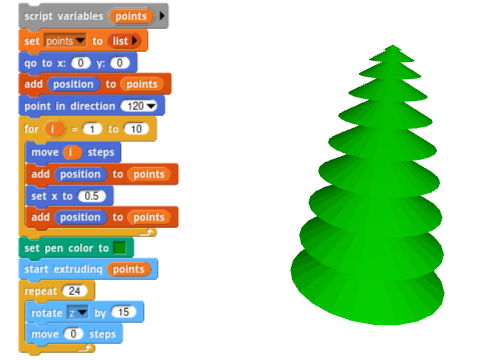
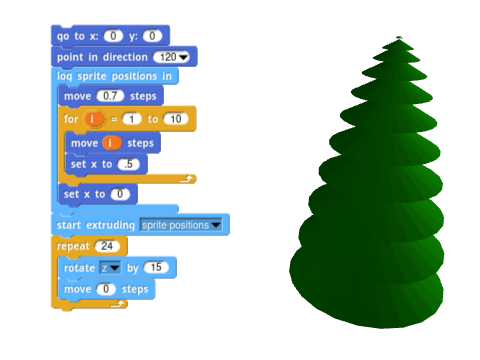
basic documentation finished for now

diff --git a/docs/viewer.html b/docs/viewer.html
@@ -39,6 +39,30 @@ body {
     font-family: arial;
     color: #333;
 }
+
+h1 {
+    font-size: 3em;
+    text-decoration: underline;
+}
+
+h2 {
+    font-size: 2.5em;
+    margin-bottom: 0em;
+    margin-top: 1.5em;
+}
+
+h3 {
+    font-size: 2em;
+    font-style: italic;
+    margin-bottom: 0em;
+}
+
+h4 {
+    font-size: 1.6em;
+    font-style: italic;
+    margin-bottom: 0em;
+}
+
         </style>
     </head>
     <body>

diff --git a/docs/index.md b/docs/index.md
@@ -25,18 +25,23 @@ features that you will easily adapt to.
 You can refer to the [blocks reference](#all-blocks-described) at the end of
 this article to learn what every single block does.
 
-## Overview and Abstractions
+## Overview and Abstractions 
+
+First of all, you will need to open the 3D viewport in order to be able to see
+the Beetle and the geometries you generate. To do so, navigate to the *3D
+Beetle* category and click on the button at the top of the blocks palette,
+labeled *Open 3D Window*.
 
 ### The Beetle
 
-The Beetle is a character that can move around 3D space. Here's what it looks
+The Beetle is a character that can move around in 3D space. Here's what it looks
 like in its default color:
 
 > ![beetle](beetle.png)
 
 This character is to 3D what the Lego turtle is to 2D. Turtles can move on a 2D
 plane, but beetles can additionally fly and dig underground, which makes them
-very apt for exploring the third dimension.
+very apt at exploring the third dimension.
 
 ### Movement and Rotation
 
@@ -57,7 +62,12 @@ we call **extrusion**. Extruding is leaving a 3D trail along a path. Think of it
 as if the Beetle was carrying a pastry tube, or one of these play dough
 extruders, with interchangeable headers.
 
-> ![The beetle and its movement and rotation axes](playdough_extruder.png)
+> ![A render of a playdough extruder](playdough_extruder.png)
+
+Extrusion is the only way to generate geometry in the 3D beetle extension, but
+it is a very powerful construct. As you gain experience with the extension
+you'll find that all shapes can be constructed in terms of extrusions of 2D
+profiles and polygons.
 
 #### Extruding a Point
 
@@ -104,14 +114,66 @@ shape:
 > ![The beetle has extruded a truncated triangle along a
 path](custom_polygon_extrusion.png)
 
-# Examples
+#### Scale and Offset
 
-First of all, you will need to open the 3D viewport in order to be able to see
-the Beetle and the geometries you generate. To do so, navigate to the *3D
-Beetle* category and click on the button at the top of the blocks palette,
-labeled *Open 3D Window*.
+Extrusion shapes can be scaled up or down by using the ![](blocks/set_scale.png)
+block. The scale is a multiplier that is applied to the dimensions of the
+current extrusion shape.
 
-## Basic Solids
+> ![](scaled_extrusion.png)
+
+Note that, as is often the case in Snap<em>!</em>, you can drop a list into the
+scale block to get it to affect the width and height of the shape separately.
+
+> ![](list_scale.png)
+
+Another operation you can apply to the current extrusion shape is an offset.
+This will affect the position of the extrusion shape relative to the Beetle.
+
+> ![](offset_extrusion.png)
+
+#### Complex Extrusion Bases
+
+Many shapes can be thought of in terms of combinations of the basic extrusion
+shapes and their possible scaling and offsetting transformations. Others can
+relatively easily be expressed as a list of points. Sometimes, though, your
+extrusion base may be too complex to input manually into a list.
+
+In these cases you'll want to use the `log sprite positions` block to trace the
+path followed by a Snap<em>!</em> sprite and turn into an extrusion base.
+
+> ![](star_extrusion.png)
+
+#### Arbitrary Extrusion Base Transformations
+
+All extrusion shapes are just lists of points, which are in turn just lists of
+two numbers. Here's the list of points of the default triangle extrusion:
+
+![](shape_points.png)
+
+Thus, you can apply any transformations you wish to the shape as you would with
+any other list in Snap<em>!</em>. For instance, you could apply a `ceiling`
+operation to the triangle shape to turn it into a right triangle:
+
+> ![](right_triangle.png)
+
+#### Zero-step Extrusion
+
+A very powerful construct in the 3D Beetle extension is the zero-step extrusion.
+When you ask the beetle to move zero steps while extruding, it will generate a
+face in 3D space. This in itself may not sound too useful, but in combination
+with rotation and scaling it can produce incredibly complex results. For
+instance, here's how to generate a smooth corner by performing a series of turns
+with zero-step extrusions in between:
+
+> ![](smooth_corner.png)
+
+In the examples section you'll see zero-step extrusion used extensively to
+generate a wide variety of shapes, such as revolution solids.
+
+## Examples
+
+### Basic Solids
 
 Since the only way to generate volumes with the Beetle is to extrude 2D shapes
 along a path, it can be interesting to start by taking a look at how to generate
@@ -121,7 +183,7 @@ An important block that you may want to have at hand is ![](reset.png). This
 block will remove all geometry from the 3D view, and get the Beetle back to its
 original position.
 
-### Cube
+#### Cube
 
 A cube can be understood as an extrusion of a square. Let's begin by selecting
 the correct extrusion base from the dropdown menu in the following block:
@@ -139,13 +201,13 @@ walk one single step:
 
 > ![](cube.png)
 
-### Cylinder
+#### Cylinder
 
 Similarly, extruding a circle will produce a cylinder.
 
 > ![](cylinder.png)
 
-### Tube
+#### Tube
 
 Here's where things can begin to get a little bit tricky. If you want the
 cylinder to have no caps -that is, if you want to generate a tube-, you can't
@@ -159,12 +221,23 @@ generating the walls of the cylinder one by one as the beetle walks in a circle:
 
 > ![](tube_code.png)
 
-To change the height of the tube you will need to specify a custom line to
-extrude:
+To change the height of the tube you could specify a custom line to extrude:
 
 > ![](long_tube_code.png)
 
-### Tube with Thick Walls
+Or you could simply change the scale of the shape:
+
+> ![](tube_scale.png)
+
+If you want the tube to be centered on the beetle, you can do so by offsetting
+the shape and performing a series of zero-step extrusions.
+
+> ![](tube_centered.png)
+
+Notice how you'll need to add an extra zero-step extrusion after the loop in
+order to close the cylinder.
+
+#### Tube with Thick Walls
 
 The previous tube has walls of zero thickness. An easy way to achieve a thick
 wall is to extrude a custom rectangle along a circular path:
@@ -182,7 +255,47 @@ move zero steps after the loop:
 
 > ![](thick_tube_code.png)
 
-### Sphere
+An even easier way to generate a tube with thick walls is to scale a square
+non-uniformly. The _x_ scale will define the thickness of the walls, while the
+_y_ scale will define the height of the tube.
+
+> ![](thick_tube_square.png)
+
+As is very often the case, there are multiple ways to think of a shape. You
+could also generate a tube by extruding two semiannuli (yes, that's the word
+mathematicians use for half a ring). You can first experiment with drawing the
+semiannulus in turtle geometry in Snap<em>!</em>, which will _definitely_ be
+much easier if you first load the Arcs library from the Library Browser.
+
+> ![](semiannulus.png)
+
+You can now turn that shape into an extrusion base by wrapping the script in a
+`log sprite positions` block:
+
+> ![](semiannulus_base.png)
+
+Notice how this created a huge base. A single step for a Snap<em>!</em> sprite
+becomes a millimeter in the Beetle world, and beetles are tiny critters. This
+also helps increase the precision of your shapes. In this case, though, you can
+apply a scale multiplier to bring the size down.
+
+The only thing missing now is to extrude this shape twice while rotating it in
+between.
+
+> ![](semiannulus_tube.png)
+
+This is obviously too much of a hassle if all you wanted is to generate a tube,
+but it opens the door to a completely different set of shapes that wouldn't be
+possible with a rectangular-based tube extrusion, such as this thimble:
+
+> ![](thimble.png)
+
+Or this smoothly bent tube:
+
+> ![](bent_tube.png)
+
+
+#### Sphere
 
 Extruding with zero-movement steps lets you generate revolution solids rather
 easily.
@@ -206,12 +319,13 @@ geometry really looks like.
 Most 3D software will take this sphere without flinching, but others will
 complain that the geometry is not correct and show it to you like it really is:
 
-> ![](cura_errors.png) ![](meshlab_errors.png)
+> ![](meshlab_errors.png)
 
-### Sphere with Proper Geometry
+#### Sphere with Proper Geometry
 
-The proper way to make a sphere is to revolve an open semicircle so that only
-the outer shell is generated, and with its facets always facing the correct way.
+If your 3D software complains, then the "proper" way to make a sphere is to
+revolve an open semicircle so that only the outer shell is generated, and with
+its facets always facing the correct way.
 
 > ![](proper_sphere.png)
 
@@ -222,9 +336,9 @@ The geometry now looks perfectly fine in wireframe mode.
 Additionally, all 3D software renders it properly with no complaints about
 reverse facets or internal faces.
 
-> ![](cura_ok.png) ![](meshlab_ok.png)
+> ![](meshlab_ok.png)
 
-### Cone
+#### Cone
 
 A cone can be understood as a revolution of a triangle. You could, thus, extrude
 a triangle while turning around the Z axis and moving zero steps at each
@@ -240,7 +354,7 @@ will be frowned upon by some 3D software:
 Just like before, the culprits are some of the faces that have ended up
 inside-out.
 
-### Cone with Proper Geometry
+#### Cone with Proper Geometry
 
 To get a proper cone we will have to revolve two lines forming an acute angle.
 
@@ -263,9 +377,23 @@ shape scale to zero, then moving as many steps as deep you want your cone to be.
 
 > ![](scaled_cone.png)
 
-## Advanced Examples
+### Advanced Examples
 
-### Staired Pyramid
+#### Pine Tree
+
+A simple pine tree can be generated by revolving a 2D zig-zag pattern. You can
+use the already familiar `log sprite positions` block to get a list of points
+that follow said zig-zag pattern.
+
+> ![](tree.png)
+
+A similar tree can be generated by extruding a succession of smaller and smaller
+rather flat cones. This method will also allow you to tweak the color of each
+floor independently.
+
+> ![](tree_cones.png)
+
+#### Staired Pyramid
 
 A pyramid can also be thought of in different ways. An obvious one is to stack a
 bunch of flat square boxes one on top of the other in decreasing sizes.
@@ -303,10 +431,9 @@ have a bottom face.
 
 > ![](stair_turtle.png)
 
-Now you don't need the pen code anymore. You can just create a temporary
-variable and push all the positions into it, then use it as the base shape of
-your extrusion. While you're at it, you can make the movement steps smaller else
-you end up with a real-sized pyramid!
+Now you don't need the pen code anymore. You can just wrap the movement code in
+a `log sprite positions` block and start extruding that shape.  While you're at
+it, you can scale it down else you end up with a real-sized pyramid!
 
 > ![](stairwell_base.png)
 
@@ -314,7 +441,7 @@ The same code from before will now generate a ten-story pyramid.
 
 > ![](ten_story_pyramid.png)
 
-### Snail Shell
+#### Snail Shell
 
 This is a classic example brought straight from Beetle Blocks. You begin by
 making a torus, or a doughnut, with a circular extrusion.
@@ -347,43 +474,6 @@ a little bit with the pen color.
 
 > ![](color_snail.png)
 
-### Pine Tree
-
-The traditional Beetle Blocks way to generate a pine tree would be to extrude a
-bunch of long cylinders in a circle, then repeat that circle while going up the
-trunk and scaling it down a bit for each floor until reaching the top of the
-tree.
-
-While this is a valid exercise, it is also interesting to generate the tree in a
-different way by revolving a 2D zig-zag pattern.
-
-> ![](tree.png)
-
-A similar tree can be generated by extruding a succession of smaller and smaller
-rather flat cones. This method will also allow you to tweak the color of each
-floor independently.
-
-> ![](tree_cones.png)
-
-## Precision Design
-
-Even though the 3D Beetle extension was *not* designed for precision modeling,
-it is actually possible to design some very precise parts, as long as they
-conform to some requirements.
-
-The hardest features to design in the 3D Beetle extension are pockets and
-through holes. Pretty much any shape, even those with holes and pockets, can be
-thought of as a composition of revolution solids and extrusions, but relatively
-complex shapes with several holes, pockets or fillets will prove really
-challenging to design.
-
-Please note again that this extension was never meant to replace precision
-modeling software, such as CAD tools. The examples listed here are but proofs of
-concept to show that *some* precise solids can also be achieved in
-Snap<em>!</em>.
-
-### Hex Nut
-
 ## All Blocks Described
 
 | | |
@@ -404,11 +494,16 @@ Snap<em>!</em>.
 | ![](blocks/point_to.png) | Gets the Beetle to look straight towards a point in 3D space. Takes a 3-element list in the form `(x y z)` as an input. |
 | ![](blocks/rotation.png) | Reports the Beetle's current rotation relative to the specified axis. |
 | | &nbsp; |
-| ![](blocks/start_extruding.png) | Starts leaving a trail in the specified shape. Also accepts a list of 2D points in the form `(( x1 y1 ) (x2 y2) (x3 y3) ... )` as a base shape, such that it describes a curve or closed polygon. The Beetle will consider the list to describe a closed polygon when the first and last points are the same. |
+| ![](blocks/start_extruding.png) | Starts leaving a trail in the specified shape. Also accepts a list of 2D points in the form `(( x1 y1 ) (x2 y2) (x3 y3) ... )` as a base shape, such that it describes a curve or closed polygon. The Beetle will consider the list to describe a closed polygon when the first and last points are the same. The `sprite positions` menu options needs to be used in conjunction with the `log sprite positions` block. |
 | ![](blocks/stop_extruding.png) | Stops leaving a trail. |
 | | &nbsp; |
-| ![](blocks/set_scale.png) | Sets the scale (multiplier) of the extrusion trail section, or the scale of the Beetle's movements, depending on the selection, to the specified value. |
-| ![](blocks/change_scale.png) | Changes the scale (multiplier) of the extrusion trail section, or the scale of the Beetle's movements, depending on the selection, by the specified amount. |
+| ![](blocks/log_sprite_positions.png) | Records all positions visited by a regular Snap<em>!</em> sprite while running the blocks inside so that they can be extruded later by the Beetle. To extrude the logged positions, select `sprite positions` from the dropdown menu in the `start extruding` block. |
+| | &nbsp; |
+| ![](blocks/shape_points.png) | Returns a list of all points that make up the current extrusion base. |
+| | &nbsp; |
+| ![](blocks/set_shape_offset.png) | Offsets the extrusion center by amounts specified by the provided two-item list. The first item in the list represents the horizontal offset, and the second one represents the vertical offset. |
+| ![](blocks/set_scale.png) | Sets the scale (multiplier) of the extrusion trail section, or the scale of the Beetle's movements, depending on the selection, to the specified value. When *shape* is selected, if provided with a list of two numbers, the first one will affect the horizontal scale and the second one will affect the vertical scale of the shape. |
+| ![](blocks/change_scale.png) | Changes the scale (multiplier) of the extrusion trail section, or the scale of the Beetle's movements, depending on the selection, by the specified amount. When *shape* is selected, if provided with a list of two numbers, the first one will affect the horizontal scale and the second one will affect the vertical scale of the shape. |
 | ![](blocks/scale.png) | Reports the scale (multiplier) of the extrusion trail section, or the scale of the Beetle's movements, depending on the selection. |
 | | &nbsp; |
 | ![](blocks/push_position.png) | Stores the current Beetle position and rotation, so that it can be revisited later. |
